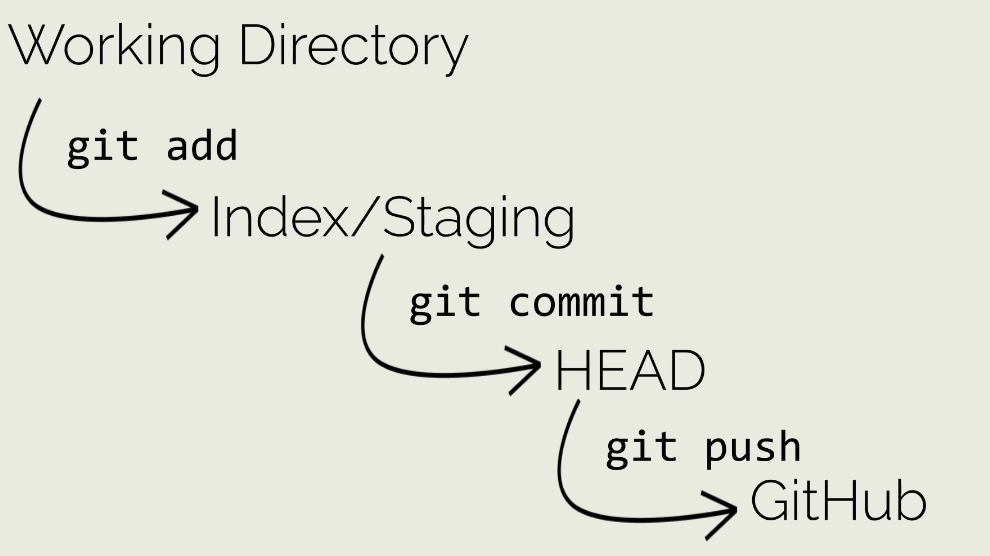
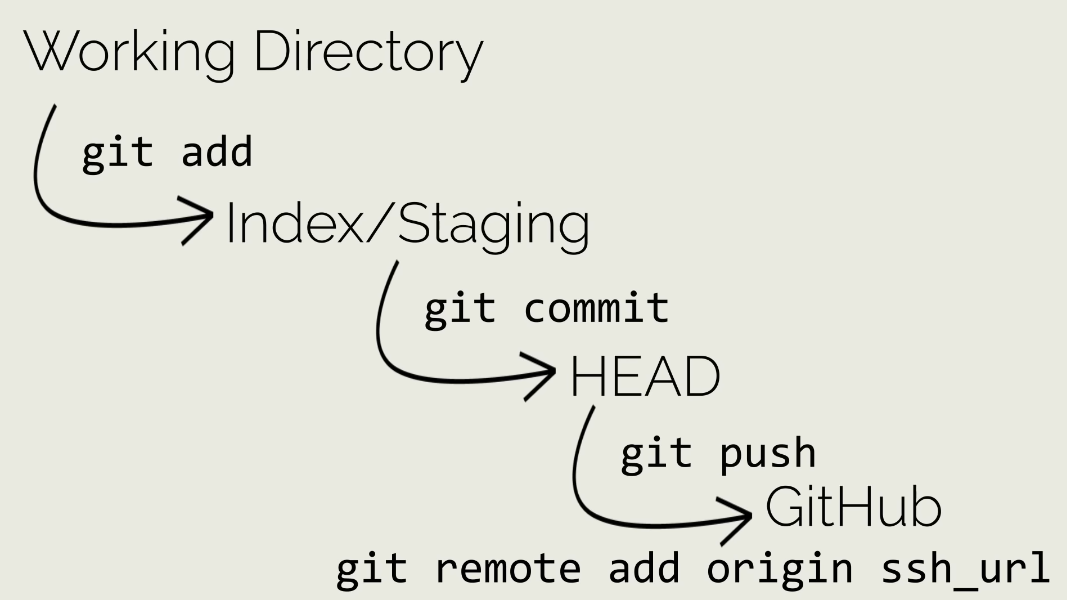
Site updated: 2020-05-27 23:42:10

diff --git a/2020/05/27/Version-control-Git-and-Github/index.html b/2020/05/27/Version-control-Git-and-Github/index.html
@@ -79,16 +79,20 @@
 
 
 
-<meta name="description" content="Set upStep 1 Generate ssh key12ssh-keygen -t rsa -b 4096 -C &quot;your github email&quot;    Step 2 add the .pub file in github setting    Step 3  Test the connection1ssh -T git@github.com  Version Control  Ini">
+<meta name="description" content="Set upStep 1 Generate ssh key12ssh-keygen -t rsa -b 4096 -C &quot;your github email&quot;    Step 2 add the .pub file in github setting    Step 3  Test the connection1ssh -T git@github.com  Version ControlIniti">
 <meta property="og:type" content="article">
 <meta property="og:title" content="Version control(Git and Github)">
 <meta property="og:url" content="http://yoursite.com/2020/05/27/Version-control-Git-and-Github/index.html">
 <meta property="og:site_name" content="Tech Dustdojo">
-<meta property="og:description" content="Set upStep 1 Generate ssh key12ssh-keygen -t rsa -b 4096 -C &quot;your github email&quot;    Step 2 add the .pub file in github setting    Step 3  Test the connection1ssh -T git@github.com  Version Control  Ini">
+<meta property="og:description" content="Set upStep 1 Generate ssh key12ssh-keygen -t rsa -b 4096 -C &quot;your github email&quot;    Step 2 add the .pub file in github setting    Step 3  Test the connection1ssh -T git@github.com  Version ControlIniti">
 <meta property="og:locale" content="en_US">
 <meta property="og:image" content="http://yoursite.com/images/git-structure.png">
+<meta property="og:image" content="http://yoursite.com/images/git-branches.png">
+<meta property="og:image" content="http://yoursite.com/images/git-merge.png">
+<meta property="og:image" content="http://yoursite.com/images/git-conflict.png">
+<meta property="og:image" content="http://yoursite.com/images/git-conflict-solution.png">
 <meta property="article:published_time" content="2020-05-27T13:12:07.000Z">
-<meta property="article:modified_time" content="2020-05-27T15:09:48.414Z">
+<meta property="article:modified_time" content="2020-05-27T15:41:42.244Z">
 <meta property="article:author" content="Tech Dustdojo">
 <meta property="article:tag" content="Git">
 <meta property="article:tag" content="GitHub">
@@ -375,15 +379,52 @@ function category_js () {
 
 <h2 id="Step-3-Test-the-connection"><a href="#Step-3-Test-the-connection" class="headerlink" title="Step 3  Test the connection"></a>Step 3  Test the connection</h2><figure class="highlight bash"><table><tr><td class="gutter"><pre><span class="line">1</span><br></pre></td><td class="code"><pre><span class="line">ssh -T git@github.com</span><br></pre></td></tr></table></figure>
 <hr>
-<h2 id="Version-Control"><a href="#Version-Control" class="headerlink" title="Version Control"></a>Version Control</h2><img src="/images/git-structure.png" class="" width="600" height="600" title="Git Structure">
-
-<h3 id="Initialize"><a href="#Initialize" class="headerlink" title="Initialize"></a>Initialize</h3><h3 id="Method-one"><a href="#Method-one" class="headerlink" title="Method one:"></a>Method one:</h3><figure class="highlight bash"><table><tr><td class="gutter"><pre><span class="line">1</span><br><span class="line">2</span><br></pre></td><td class="code"><pre><span class="line"></span><br><span class="line">git init <span class="comment"># add .git folder</span></span><br></pre></td></tr></table></figure>
+<h2 id="Version-Control"><a href="#Version-Control" class="headerlink" title="Version Control"></a>Version Control</h2><h3 id="Initialize"><a href="#Initialize" class="headerlink" title="Initialize"></a>Initialize</h3><h4 id="Method-one"><a href="#Method-one" class="headerlink" title="Method one:"></a>Method one:</h4><figure class="highlight bash"><table><tr><td class="gutter"><pre><span class="line">1</span><br><span class="line">2</span><br></pre></td><td class="code"><pre><span class="line"></span><br><span class="line">git init <span class="comment"># add .git folder</span></span><br></pre></td></tr></table></figure>
 
 
-<h3 id="Method-two"><a href="#Method-two" class="headerlink" title="Method two:"></a>Method two:</h3><figure class="highlight bash"><table><tr><td class="gutter"><pre><span class="line">1</span><br><span class="line">2</span><br></pre></td><td class="code"><pre><span class="line"></span><br><span class="line">git <span class="built_in">clone</span> ssh_url <span class="comment"># add .git folder and remote</span></span><br></pre></td></tr></table></figure>
+<h4 id="Method-two"><a href="#Method-two" class="headerlink" title="Method two:"></a>Method two:</h4><figure class="highlight bash"><table><tr><td class="gutter"><pre><span class="line">1</span><br><span class="line">2</span><br></pre></td><td class="code"><pre><span class="line"></span><br><span class="line">git <span class="built_in">clone</span> ssh_url <span class="comment"># add .git folder and remote</span></span><br></pre></td></tr></table></figure>
+<h3 id="Git-Structure"><a href="#Git-Structure" class="headerlink" title="Git Structure"></a>Git Structure</h3><img src="/images/git-structure.png" class="" width="600" height="600" title="Git Structure">
 
 
-<figure class="highlight bash"><table><tr><td class="gutter"><pre><span class="line">1</span><br><span class="line">2</span><br></pre></td><td class="code"><pre><span class="line"></span><br><span class="line"></span><br></pre></td></tr></table></figure>
+<figure class="highlight bash"><table><tr><td class="gutter"><pre><span class="line">1</span><br><span class="line">2</span><br><span class="line">3</span><br><span class="line">4</span><br><span class="line">5</span><br><span class="line">6</span><br><span class="line">7</span><br></pre></td><td class="code"><pre><span class="line">git add filename.html</span><br><span class="line"></span><br><span class="line">git commit -m <span class="string">"added filename"</span></span><br><span class="line"></span><br><span class="line">git diff <span class="comment"># show changes</span></span><br><span class="line"></span><br><span class="line">git push <span class="comment"># push to online repository</span></span><br></pre></td></tr></table></figure>
+
+
+
+<h3 id="Branches"><a href="#Branches" class="headerlink" title="Branches"></a>Branches</h3><img src="/images/git-branches.png" class="" width="600" height="600" title="Git Branches">
+
+
+<figure class="highlight bash"><table><tr><td class="gutter"><pre><span class="line">1</span><br><span class="line">2</span><br><span class="line">3</span><br><span class="line">4</span><br><span class="line">5</span><br></pre></td><td class="code"><pre><span class="line">git branch feature_a <span class="comment"># create new branch</span></span><br><span class="line"></span><br><span class="line">git checkout feature_a <span class="comment"># switch to feature_a</span></span><br><span class="line"></span><br><span class="line">git checkout -b feature_a <span class="comment">#create and switch to feature_a</span></span><br></pre></td></tr></table></figure>
+
+<ul>
+<li><h3 id="use-the-following-cmd-to-push-if-the-repository-do-not-contain-the-new-branch"><a href="#use-the-following-cmd-to-push-if-the-repository-do-not-contain-the-new-branch" class="headerlink" title="use the following cmd to push if the repository do not contain the new branch"></a>use the following cmd to push if the repository do not contain the new branch</h3><figure class="highlight bash"><table><tr><td class="gutter"><pre><span class="line">1</span><br></pre></td><td class="code"><pre><span class="line">git push --<span class="built_in">set</span>-upstream origin branch_name</span><br></pre></td></tr></table></figure>
+
+
+</li>
+</ul>
+<h3 id="Merge"><a href="#Merge" class="headerlink" title="Merge"></a>Merge</h3><img src="/images/git-merge.png" class="" width="600" height="600" title="Git Merge">
+
+
+<ul>
+<li><h3 id="switch-to-master-branch-first"><a href="#switch-to-master-branch-first" class="headerlink" title="switch to master branch first"></a>switch to master branch first</h3><figure class="highlight bash"><table><tr><td class="gutter"><pre><span class="line">1</span><br></pre></td><td class="code"><pre><span class="line">git merge branche_name <span class="comment">#merge the branch to master</span></span><br></pre></td></tr></table></figure>
+
+</li>
+</ul>
+<h3 id="Conflict"><a href="#Conflict" class="headerlink" title="Conflict"></a>Conflict</h3><img src="/images/git-conflict.png" class="" width="600" height="600" title="Git Conflict">
+
+<ul>
+<li><h3 id="if-conflict-occurs-when-merging-two-file"><a href="#if-conflict-occurs-when-merging-two-file" class="headerlink" title="if conflict occurs when merging two file"></a>if conflict occurs when merging two file</h3></li>
+</ul>
+<img src="/images/git-conflict-solution.png" class="" width="600" height="600" title="Git Conflict Solution">
+
+<ul>
+<li><h3 id="delete-the-unnessary-code-as-following"><a href="#delete-the-unnessary-code-as-following" class="headerlink" title="delete the unnessary code as following"></a>delete the unnessary code as following</h3></li>
+<li><h3 id="then-add-commit-push"><a href="#then-add-commit-push" class="headerlink" title="then add, commit, push"></a>then add, commit, push</h3></li>
+</ul>
+<h3 id="Git-pull"><a href="#Git-pull" class="headerlink" title="Git pull"></a>Git pull</h3><figure class="highlight bash"><table><tr><td class="gutter"><pre><span class="line">1</span><br><span class="line">2</span><br><span class="line">3</span><br></pre></td><td class="code"><pre><span class="line">git pull </span><br><span class="line"></span><br><span class="line"><span class="comment"># get the update from GitHub repository</span></span><br></pre></td></tr></table></figure>
+
+
+<h3 id="Other-cmd"><a href="#Other-cmd" class="headerlink" title="Other cmd"></a>Other cmd</h3><figure class="highlight bash"><table><tr><td class="gutter"><pre><span class="line">1</span><br></pre></td><td class="code"><pre><span class="line">git status <span class="comment">#show current branch</span></span><br></pre></td></tr></table></figure>
+
       
     </div>
     
@@ -555,7 +596,7 @@ function category_js () {
             
 
             
-              <div class="post-toc-content"><ol class="nav"><li class="nav-item nav-level-1"><a class="nav-link" href="#Set-up"><span class="nav-number">1.</span> <span class="nav-text">Set up</span></a><ol class="nav-child"><li class="nav-item nav-level-2"><a class="nav-link" href="#Step-1-Generate-ssh-key"><span class="nav-number">1.1.</span> <span class="nav-text">Step 1 Generate ssh key</span></a></li><li class="nav-item nav-level-2"><a class="nav-link" href="#Step-2-add-the-pub-file-in-github-setting"><span class="nav-number">1.2.</span> <span class="nav-text">Step 2 add the .pub file in github setting</span></a></li><li class="nav-item nav-level-2"><a class="nav-link" href="#Step-3-Test-the-connection"><span class="nav-number">1.3.</span> <span class="nav-text">Step 3  Test the connection</span></a></li><li class="nav-item nav-level-2"><a class="nav-link" href="#Version-Control"><span class="nav-number">1.4.</span> <span class="nav-text">Version Control</span></a><ol class="nav-child"><li class="nav-item nav-level-3"><a class="nav-link" href="#Initialize"><span class="nav-number">1.4.1.</span> <span class="nav-text">Initialize</span></a></li><li class="nav-item nav-level-3"><a class="nav-link" href="#Method-one"><span class="nav-number">1.4.2.</span> <span class="nav-text">Method one:</span></a></li><li class="nav-item nav-level-3"><a class="nav-link" href="#Method-two"><span class="nav-number">1.4.3.</span> <span class="nav-text">Method two:</span></a></li></ol></li></ol></li></ol></div>
+              <div class="post-toc-content"><ol class="nav"><li class="nav-item nav-level-1"><a class="nav-link" href="#Set-up"><span class="nav-number">1.</span> <span class="nav-text">Set up</span></a><ol class="nav-child"><li class="nav-item nav-level-2"><a class="nav-link" href="#Step-1-Generate-ssh-key"><span class="nav-number">1.1.</span> <span class="nav-text">Step 1 Generate ssh key</span></a></li><li class="nav-item nav-level-2"><a class="nav-link" href="#Step-2-add-the-pub-file-in-github-setting"><span class="nav-number">1.2.</span> <span class="nav-text">Step 2 add the .pub file in github setting</span></a></li><li class="nav-item nav-level-2"><a class="nav-link" href="#Step-3-Test-the-connection"><span class="nav-number">1.3.</span> <span class="nav-text">Step 3  Test the connection</span></a></li><li class="nav-item nav-level-2"><a class="nav-link" href="#Version-Control"><span class="nav-number">1.4.</span> <span class="nav-text">Version Control</span></a><ol class="nav-child"><li class="nav-item nav-level-3"><a class="nav-link" href="#Initialize"><span class="nav-number">1.4.1.</span> <span class="nav-text">Initialize</span></a><ol class="nav-child"><li class="nav-item nav-level-4"><a class="nav-link" href="#Method-one"><span class="nav-number">1.4.1.1.</span> <span class="nav-text">Method one:</span></a></li><li class="nav-item nav-level-4"><a class="nav-link" href="#Method-two"><span class="nav-number">1.4.1.2.</span> <span class="nav-text">Method two:</span></a></li></ol></li><li class="nav-item nav-level-3"><a class="nav-link" href="#Git-Structure"><span class="nav-number">1.4.2.</span> <span class="nav-text">Git Structure</span></a></li><li class="nav-item nav-level-3"><a class="nav-link" href="#Branches"><span class="nav-number">1.4.3.</span> <span class="nav-text">Branches</span></a></li><li class="nav-item nav-level-3"><a class="nav-link" href="#use-the-following-cmd-to-push-if-the-repository-do-not-contain-the-new-branch"><span class="nav-number">1.4.4.</span> <span class="nav-text">use the following cmd to push if the repository do not contain the new branch</span></a></li><li class="nav-item nav-level-3"><a class="nav-link" href="#Merge"><span class="nav-number">1.4.5.</span> <span class="nav-text">Merge</span></a></li><li class="nav-item nav-level-3"><a class="nav-link" href="#switch-to-master-branch-first"><span class="nav-number">1.4.6.</span> <span class="nav-text">switch to master branch first</span></a></li><li class="nav-item nav-level-3"><a class="nav-link" href="#Conflict"><span class="nav-number">1.4.7.</span> <span class="nav-text">Conflict</span></a></li><li class="nav-item nav-level-3"><a class="nav-link" href="#if-conflict-occurs-when-merging-two-file"><span class="nav-number">1.4.8.</span> <span class="nav-text">if conflict occurs when merging two file</span></a></li><li class="nav-item nav-level-3"><a class="nav-link" href="#delete-the-unnessary-code-as-following"><span class="nav-number">1.4.9.</span> <span class="nav-text">delete the unnessary code as following</span></a></li><li class="nav-item nav-level-3"><a class="nav-link" href="#then-add-commit-push"><span class="nav-number">1.4.10.</span> <span class="nav-text">then add, commit, push</span></a></li><li class="nav-item nav-level-3"><a class="nav-link" href="#Git-pull"><span class="nav-number">1.4.11.</span> <span class="nav-text">Git pull</span></a></li><li class="nav-item nav-level-3"><a class="nav-link" href="#Other-cmd"><span class="nav-number">1.4.12.</span> <span class="nav-text">Other cmd</span></a></li></ol></li></ol></li></ol></div>
             
 
           </div>

diff --git a/index.html b/index.html
@@ -372,15 +372,52 @@ function category_js () {
 
 <h2 id="Step-3-Test-the-connection"><a href="#Step-3-Test-the-connection" class="headerlink" title="Step 3  Test the connection"></a>Step 3  Test the connection</h2><figure class="highlight bash"><table><tr><td class="gutter"><pre><span class="line">1</span><br></pre></td><td class="code"><pre><span class="line">ssh -T git@github.com</span><br></pre></td></tr></table></figure>
 <hr>
-<h2 id="Version-Control"><a href="#Version-Control" class="headerlink" title="Version Control"></a>Version Control</h2><img src="/images/git-structure.png" class="" width="600" height="600" title="Git Structure">
-
-<h3 id="Initialize"><a href="#Initialize" class="headerlink" title="Initialize"></a>Initialize</h3><h3 id="Method-one"><a href="#Method-one" class="headerlink" title="Method one:"></a>Method one:</h3><figure class="highlight bash"><table><tr><td class="gutter"><pre><span class="line">1</span><br><span class="line">2</span><br></pre></td><td class="code"><pre><span class="line"></span><br><span class="line">git init <span class="comment"># add .git folder</span></span><br></pre></td></tr></table></figure>
+<h2 id="Version-Control"><a href="#Version-Control" class="headerlink" title="Version Control"></a>Version Control</h2><h3 id="Initialize"><a href="#Initialize" class="headerlink" title="Initialize"></a>Initialize</h3><h4 id="Method-one"><a href="#Method-one" class="headerlink" title="Method one:"></a>Method one:</h4><figure class="highlight bash"><table><tr><td class="gutter"><pre><span class="line">1</span><br><span class="line">2</span><br></pre></td><td class="code"><pre><span class="line"></span><br><span class="line">git init <span class="comment"># add .git folder</span></span><br></pre></td></tr></table></figure>
 
 
-<h3 id="Method-two"><a href="#Method-two" class="headerlink" title="Method two:"></a>Method two:</h3><figure class="highlight bash"><table><tr><td class="gutter"><pre><span class="line">1</span><br><span class="line">2</span><br></pre></td><td class="code"><pre><span class="line"></span><br><span class="line">git <span class="built_in">clone</span> ssh_url <span class="comment"># add .git folder and remote</span></span><br></pre></td></tr></table></figure>
+<h4 id="Method-two"><a href="#Method-two" class="headerlink" title="Method two:"></a>Method two:</h4><figure class="highlight bash"><table><tr><td class="gutter"><pre><span class="line">1</span><br><span class="line">2</span><br></pre></td><td class="code"><pre><span class="line"></span><br><span class="line">git <span class="built_in">clone</span> ssh_url <span class="comment"># add .git folder and remote</span></span><br></pre></td></tr></table></figure>
+<h3 id="Git-Structure"><a href="#Git-Structure" class="headerlink" title="Git Structure"></a>Git Structure</h3><img src="/images/git-structure.png" class="" width="600" height="600" title="Git Structure">
 
 
-<figure class="highlight bash"><table><tr><td class="gutter"><pre><span class="line">1</span><br><span class="line">2</span><br></pre></td><td class="code"><pre><span class="line"></span><br><span class="line"></span><br></pre></td></tr></table></figure>
+<figure class="highlight bash"><table><tr><td class="gutter"><pre><span class="line">1</span><br><span class="line">2</span><br><span class="line">3</span><br><span class="line">4</span><br><span class="line">5</span><br><span class="line">6</span><br><span class="line">7</span><br></pre></td><td class="code"><pre><span class="line">git add filename.html</span><br><span class="line"></span><br><span class="line">git commit -m <span class="string">"added filename"</span></span><br><span class="line"></span><br><span class="line">git diff <span class="comment"># show changes</span></span><br><span class="line"></span><br><span class="line">git push <span class="comment"># push to online repository</span></span><br></pre></td></tr></table></figure>
+
+
+
+<h3 id="Branches"><a href="#Branches" class="headerlink" title="Branches"></a>Branches</h3><img src="/images/git-branches.png" class="" width="600" height="600" title="Git Branches">
+
+
+<figure class="highlight bash"><table><tr><td class="gutter"><pre><span class="line">1</span><br><span class="line">2</span><br><span class="line">3</span><br><span class="line">4</span><br><span class="line">5</span><br></pre></td><td class="code"><pre><span class="line">git branch feature_a <span class="comment"># create new branch</span></span><br><span class="line"></span><br><span class="line">git checkout feature_a <span class="comment"># switch to feature_a</span></span><br><span class="line"></span><br><span class="line">git checkout -b feature_a <span class="comment">#create and switch to feature_a</span></span><br></pre></td></tr></table></figure>
+
+<ul>
+<li><h3 id="use-the-following-cmd-to-push-if-the-repository-do-not-contain-the-new-branch"><a href="#use-the-following-cmd-to-push-if-the-repository-do-not-contain-the-new-branch" class="headerlink" title="use the following cmd to push if the repository do not contain the new branch"></a>use the following cmd to push if the repository do not contain the new branch</h3><figure class="highlight bash"><table><tr><td class="gutter"><pre><span class="line">1</span><br></pre></td><td class="code"><pre><span class="line">git push --<span class="built_in">set</span>-upstream origin branch_name</span><br></pre></td></tr></table></figure>
+
+
+</li>
+</ul>
+<h3 id="Merge"><a href="#Merge" class="headerlink" title="Merge"></a>Merge</h3><img src="/images/git-merge.png" class="" width="600" height="600" title="Git Merge">
+
+
+<ul>
+<li><h3 id="switch-to-master-branch-first"><a href="#switch-to-master-branch-first" class="headerlink" title="switch to master branch first"></a>switch to master branch first</h3><figure class="highlight bash"><table><tr><td class="gutter"><pre><span class="line">1</span><br></pre></td><td class="code"><pre><span class="line">git merge branche_name <span class="comment">#merge the branch to master</span></span><br></pre></td></tr></table></figure>
+
+</li>
+</ul>
+<h3 id="Conflict"><a href="#Conflict" class="headerlink" title="Conflict"></a>Conflict</h3><img src="/images/git-conflict.png" class="" width="600" height="600" title="Git Conflict">
+
+<ul>
+<li><h3 id="if-conflict-occurs-when-merging-two-file"><a href="#if-conflict-occurs-when-merging-two-file" class="headerlink" title="if conflict occurs when merging two file"></a>if conflict occurs when merging two file</h3></li>
+</ul>
+<img src="/images/git-conflict-solution.png" class="" width="600" height="600" title="Git Conflict Solution">
+
+<ul>
+<li><h3 id="delete-the-unnessary-code-as-following"><a href="#delete-the-unnessary-code-as-following" class="headerlink" title="delete the unnessary code as following"></a>delete the unnessary code as following</h3></li>
+<li><h3 id="then-add-commit-push"><a href="#then-add-commit-push" class="headerlink" title="then add, commit, push"></a>then add, commit, push</h3></li>
+</ul>
+<h3 id="Git-pull"><a href="#Git-pull" class="headerlink" title="Git pull"></a>Git pull</h3><figure class="highlight bash"><table><tr><td class="gutter"><pre><span class="line">1</span><br><span class="line">2</span><br><span class="line">3</span><br></pre></td><td class="code"><pre><span class="line">git pull </span><br><span class="line"></span><br><span class="line"><span class="comment"># get the update from GitHub repository</span></span><br></pre></td></tr></table></figure>
+
+
+<h3 id="Other-cmd"><a href="#Other-cmd" class="headerlink" title="Other cmd"></a>Other cmd</h3><figure class="highlight bash"><table><tr><td class="gutter"><pre><span class="line">1</span><br></pre></td><td class="code"><pre><span class="line">git status <span class="comment">#show current branch</span></span><br></pre></td></tr></table></figure>
+
           
         
       

diff --git a/css/main.css b/css/main.css
@@ -1823,7 +1823,7 @@ pre .javascript .function {
   width: 4px;
   height: 4px;
   border-radius: 50%;
-  background: #ecafcf;
+  background: #ff325b;
 }
 .links-of-blogroll {
   font-size: 13px;
